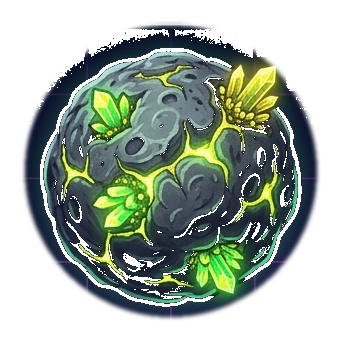
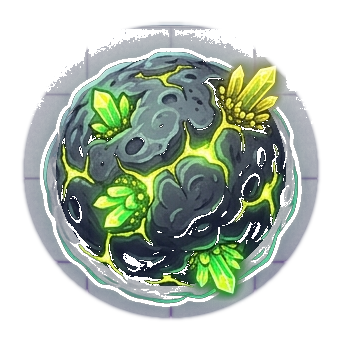
Fix asteroid glow black backgrounds and fix phase 1 boss dialogue crash

Changed region(s): [[0.0587, 0.0587, 0.9384, 0.9384]]

diff --git a/src/systems/BossSystem.js b/src/systems/BossSystem.js
@@ -18,7 +18,27 @@ export default class BossSystem {
         let c1 = "[1] Attack!";
         let c2 = "[2] Defend!";
         
-        if (type === 'boss_cheese') {
+        if (type === 'boss') {
+            title = "DREADNOUGHT";
+            subtitle = "THE STEEL BEHEMOTH";
+            c1 = "[1] 'Friss Laser, Blecheimer!'";
+            c2 = "[2] 'Ausweichmanöver aktivieren!'";
+        } else if (type === 'mothership') {
+            title = "MOTHERSHIP";
+            subtitle = "ALIEN CARRIER";
+            c1 = "[1] 'Schilde durchbrechen!'";
+            c2 = "[2] 'Auf Distanz bleiben!'";
+        } else if (type === 'hivemind') {
+            title = "HIVEMIND";
+            subtitle = "THE SWARM QUEEN";
+            c1 = "[1] 'Feuer konzentrieren!'";
+            c2 = "[2] 'Drohnen abwehren!'";
+        } else if (type === 'destroyer') {
+            title = "VOID DESTROYER";
+            subtitle = "END OF ALL THINGS";
+            c1 = "[1] 'Alles oder Nichts!'";
+            c2 = "[2] 'Schilde auf Maximum!'";
+        } else if (type === 'boss_cheese') {
             title = "LORD GOUDA";
             subtitle = "THE LACTOSE OVERLORD";
             c1 = "[1] 'Ich bin laktoseintolerant!'";
@@ -36,6 +56,7 @@ export default class BossSystem {
         }
 
         this.showInteractiveBossIntro(title, subtitle, c1, c2, (modifier) => {
+            bossSprite.combatModifier = modifier;
             // Apply unique boss AI logic after dialogue
             bossSprite.customType = type;
             bossSprite.nextAttack = this.scene.time.now + 2000;

diff --git a/src/scenes/GameScene.js b/src/scenes/GameScene.js
@@ -1377,9 +1377,8 @@ export default class GameScene extends Phaser.Scene {
         
         e.spawnScale = finalScale;
         
-        if (type.startsWith('boss_')) {
+        if (type === 'boss' || type === 'mothership' || type === 'hivemind' || type === 'destroyer' || type.startsWith('boss_')) {
             if (this.bossSys) {
-                // Initialize the interactive boss intro and specific mechanics
                 this.bossSys.initCustomBoss(e, type);
             }
         }
@@ -1426,13 +1425,7 @@ export default class GameScene extends Phaser.Scene {
             this.hud.bossName.setVisible(true);
             this.hud.bossName.setText(type.toUpperCase());
             
-            // Trigger cinematic intro
-            let bossNameId = type;
-            if (type === 'boss') bossNameId = 'dreadnought'; // fallback mapping
-            this.bossSys.showInteractiveBossIntro(bossNameId, (modifier) => {
-                e.combatModifier = modifier;
-                this.bossSys.setupHitZones(e);
-            });
+            // Intro is now handled by initCustomBoss up above
             this.eventSys.triggerCompanionComment('boss_spawn');
         }
         return e;

diff --git a/src/scenes/BootScene.js b/src/scenes/BootScene.js
@@ -125,8 +125,8 @@ export default class BootScene extends Phaser.Scene {
         
         // AI Generated Asteroids
         for (let i = 0; i < 9; i++) {
-            this.load.image('asteroid_normal_' + i, 'asteroids/normal_' + i + '.png?v=1');
-            this.load.image('asteroid_ore_' + i, 'asteroids/ore_' + i + '.png?v=1');
+            this.load.image('asteroid_normal_' + i, 'asteroids/normal_' + i + '.png?v=9');
+            this.load.image('asteroid_ore_' + i, 'asteroids/ore_' + i + '.png?v=9');
         }
         
         this.load.image('crystal_xp',   'crystal_xp.png?v=6');
